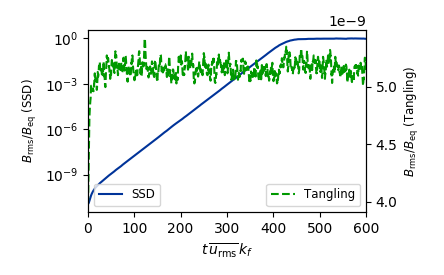
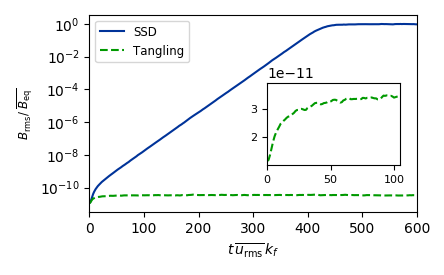
Revised figures for Fig 1

diff --git a/ssdyn_letter.tex b/ssdyn_letter.tex
@@ -403,12 +403,13 @@ They refute the earlier dynamo solutions of \citet{BKMM04}
 Comparison of simulations, one with tangling and the other with dynamo
 amplification of magnetic field, from non-helical random forcing.
 For the model with SSD $R_{\rm m}=148$ and $P_{\rm m}=50$.
-The model with only tangling has $R_{\rm m}=7.4$ and $P_{\rm m}=2.5$ (TBC).
+The model with only tangling has $R_{\rm m}=7.4$ and $P_{\rm m}=2.5$.
 Panel (a) displays $B_{\rm rms}$ as a proportion of $\overline{B_{\rm Eq}}$,
 where $\overline{B_{\rm Eq}}=\overline{u_{\rm rms}}/\sqrt{2}$ is the 
 time-averaged equipartion field and $\overline{u_{\rm rms}}$ is the 
 time-averaged $u_{\rm rms}$ during the kinematic phase.
-Time is scaled with $k_f\,u_{\rm rms}$. 
+The inset shows a zoom-in of the early linear growth of the tangled field.
+Time is scaled with $k_f\,u_{\rm rms}$.
 Power spectra are displayed for SSD magnetic energy (b) and tangling (c).
 The forcing scale, $k_f=8$,
  is indicated by the vertical dotted line and the black dashed
